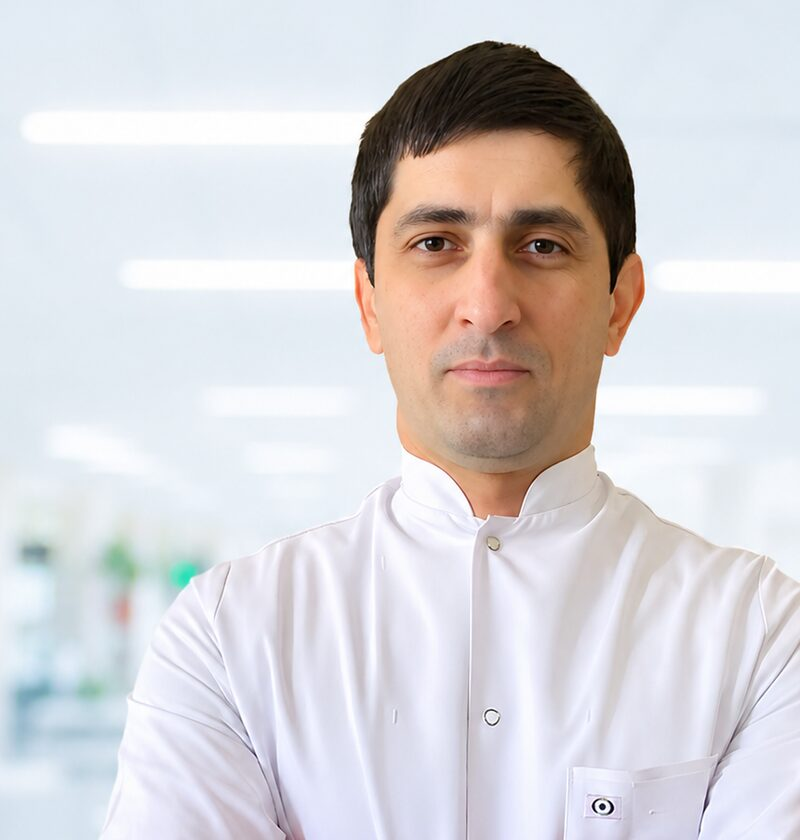
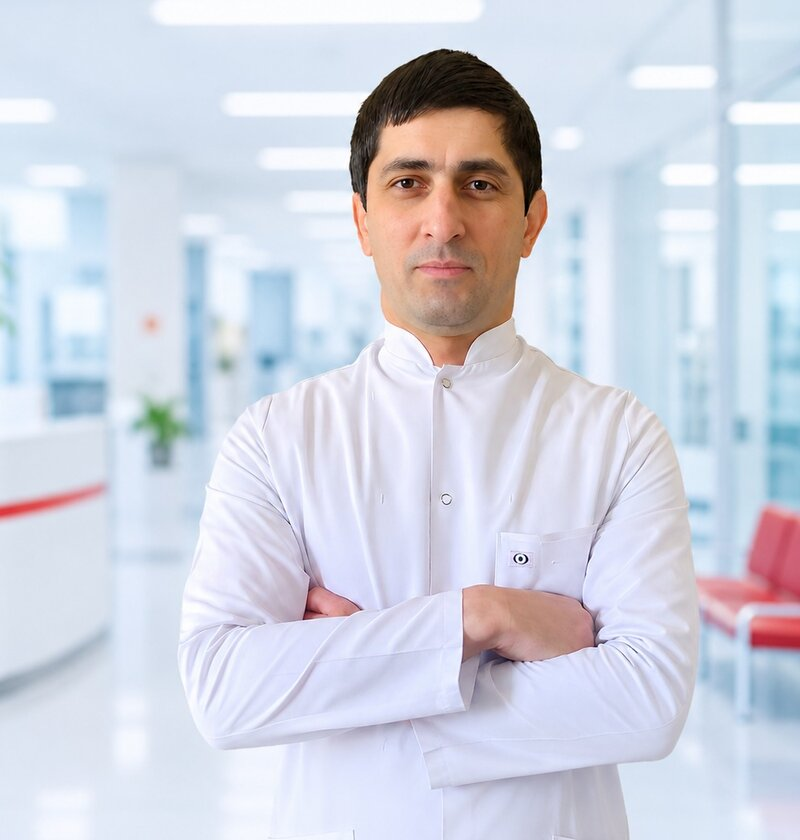
Slayd: maskalı cərrahlar; Dr. Pərvin Babayev (LOR-cərrah) əlavə olundu; Elnurə Mustafayeva və Asif Hüseynovun şəkilləri yeniləndi

diff --git a/index.html b/index.html
@@ -501,7 +501,7 @@
         </div>
 
         <div class="hero-visual reveal">
-          <div class="hero-card"><div class="hero-slides" id="heroSlides"><div class="hero-slide" style="background-image:url('https://images.unsplash.com/photo-1551076805-e1869033e561?auto=format&fit=crop&w=1200&q=85')"><div class="cap"><b>Müasir diaqnostika</b><small>Ən son tibbi avadanlıqla dəqiq nəticə</small></div></div><div class="hero-slide" style="background-image:url('https://images.unsplash.com/photo-1612349317150-e413f6a5b16d?auto=format&fit=crop&w=1200&q=85')"><div class="cap cap-right"><b>Peşəkar həkim heyəti</b><small>Təcrübəli mütəxəssislər xidmətinizdə</small></div></div><div class="hero-slide" style="background-image:url('https://images.unsplash.com/photo-1519494026892-80bbd2d6fd0d?auto=format&fit=crop&w=1200&q=85')"><div class="cap"><b>Qəbələdə yanınızdayıq</b><small>H. Aslanov küçəsi 102 və 49</small></div></div></div><div class="hero-badge">
+          <div class="hero-card"><div class="hero-slides" id="heroSlides"><div class="hero-slide" style="background-image:url('https://images.unsplash.com/photo-1551076805-e1869033e561?auto=format&fit=crop&w=1200&q=85')"><div class="cap"><b>Müasir diaqnostika</b><small>Ən son tibbi avadanlıqla dəqiq nəticə</small></div></div><div class="hero-slide" style="background-image:url('https://images.unsplash.com/photo-1551601651-2a8555f1a136?auto=format&fit=crop&w=1200&q=85')"><div class="cap"><b>Peşəkar həkim heyəti</b><small>Təcrübəli mütəxəssislər xidmətinizdə</small></div></div><div class="hero-slide" style="background-image:url('https://images.unsplash.com/photo-1519494026892-80bbd2d6fd0d?auto=format&fit=crop&w=1200&q=85')"><div class="cap"><b>Qəbələdə yanınızdayıq</b><small>H. Aslanov küçəsi 102 və 49</small></div></div></div><div class="hero-badge">
             <div class="badge-icon">
               <svg width="26" height="26" viewBox="0 0 24 24" fill="none">
                 <path d="M12 21s-7-4.4-7-10a4 4 0 0 1 7-2.5A4 4 0 0 1 19 11c0 5.6-7 10-7 10Z" stroke="currentColor" stroke-width="1.8"/>
@@ -787,14 +787,15 @@
     /* Həkim siyahısı — yeni həkim əlavə etmək üçün bu siyahıya bir sətir əlavə edin.
        photo: "images/ad-soyad.jpg" (istəyə bağlı) */
     const DOCTORS = [
-      { name: "Dr. Asif Hüseynov", spec: "Uroloq-Androloq", dept: "Urologiya", meta: "Kişi sonsuzluğu, böyrək daşı, sidik kisəsi daşlarının əməliyyatı", photo: "images/doctors/asif-huseynov.jpg?v=2", ig: "https://www.instagram.com/p/DfUuBQCI6os/" },
+      { name: "Dr. Asif Hüseynov", spec: "Uroloq-Androloq", dept: "Urologiya", meta: "Kişi sonsuzluğu, böyrək daşı, sidik kisəsi daşlarının əməliyyatı", photo: "images/doctors/asif-huseynov.jpg?v=3", ig: "https://www.instagram.com/p/DfUuBQCI6os/" },
       { name: "Dr. Gülnar Məhəmmədzadə", spec: "Cərrah-ginekoloq", dept: "Ginekologiya", meta: "Hamiləliyin aparılması, keysəriyyə, ginekoloji əməliyyatlar", photo: "images/doctors/gulnar-mehemmedzade.jpg?v=2", ig: "https://www.instagram.com/p/DfSNoJIIn2J/" },
       { name: "Dr. Nigar Həsənova Eyyubova", spec: "Cərrah ginekoloq", dept: "Ginekologiya", meta: "Riskli hamiləlik, sonsuzluq, laparoskopik əməliyyatlar", photo: "images/doctors/nigar-hesenova.jpg?v=2", ig: "https://www.instagram.com/p/DfW5IZCoJJS/" },
-      { name: "Dr. Elnurə Mustafayeva", spec: "Ginekoloq, süni mayalanma mütəxəssisi", dept: "Ginekologiya", meta: "Süni mayalanma (IVF), sonsuzluq, hamiləliyin planlanması", photo: "images/doctors/elnure-mustafayeva.jpg?v=2", pos: "50% 10%", ig: "https://www.instagram.com/p/DfRKHZsIlkV/" },
+      { name: "Dr. Elnurə Mustafayeva", spec: "Ginekoloq, süni mayalanma mütəxəssisi", dept: "Ginekologiya", meta: "Süni mayalanma (IVF), sonsuzluq, hamiləliyin planlanması", photo: "images/doctors/elnure-mustafayeva.jpg?v=3", ig: "https://www.instagram.com/p/DfRKHZsIlkV/" },
       { name: "Dr. Ofeliya Səfərova", spec: "Nevroloq", dept: "Nevrologiya", meta: "EEQ, insult, epilepsiya, yuxu və yaddaş problemləri", photo: "images/doctors/ofeliya-seferova.jpg?v=2", ig: "https://www.instagram.com/p/DfpPOfnIMRC/" },
       { name: "Dr. Əfsanə Salamova", spec: "Radioloq", dept: "Radiologiya (USM)", meta: "Ultrasəs və Doppler müayinələri", photo: "images/doctors/efsane-salamova.jpg?v=2", ig: "https://www.instagram.com/p/DfaC7XPo86s/" },
       { name: "Dr. Novruz Əlimirzəyev", spec: "Cərrah, endoskopist, qastroenteroloq", dept: "Qastroenterologiya", meta: "Qastroskopiya, kolonoskopiya, polipektomiya, USM", photo: "images/doctors/novruz-elimirzeyev.jpg?v=2", ig: "https://www.instagram.com/p/DfVABvbx9Ah/" },
       { name: "Dr. Gündüz Məmmədov", spec: "Uzman pediatr", dept: "Pediatriya", meta: "Yenidoğulmuşların müayinəsi, böyümə və inkişafın izlənməsi", photo: "images/doctors/gunduz-memmedov.jpg?v=2", ig: "https://www.instagram.com/reel/De2FyMGos3e/" },
+      { name: "Dr. Pərvin Babayev", spec: "LOR-cərrah", dept: "LOR", meta: "Qulaq, burun, boğaz xəstəlikləri, endoskopik müayinə, burun çəpərinin əyriliyi, tonsillərin rezeksiyası", photo: "images/doctors/pervin-babayev.jpg?v=2", ig: "" },
       { name: "Dr. Nuranə Sadiqlı", spec: "Revmatoloq", dept: "Revmatologiya", meta: "Revmatoid artrit, podaqra, Behçet xəstəliyi", photo: "images/doctors/nurane-sadiqli.jpg?v=2", ig: "https://www.instagram.com/p/DfQ_AFoI8-b/" },
       { name: "Dr. Ruhib Rəhimov", spec: "Dermatoveneroloq", dept: "Dermatologiya", meta: "Dəri, saç və dırnaq xəstəlikləri · hər bazar 09:00–13:00", photo: "images/doctors/ruhib-rehimov.jpg?v=2", ig: "https://www.instagram.com/p/DeyMhLaIEVN/" },
       { name: "Dr. Ziyadxan Abdullayev", spec: "Psixiatr", dept: "Psixiatriya", meta: "Stress, panik atak, depressiya, yuxu pozuntuları", photo: "images/doctors/ziyadxan-abdullayev.jpg?v=2", ig: "https://www.instagram.com/p/Deyl7fxInHX/" },
